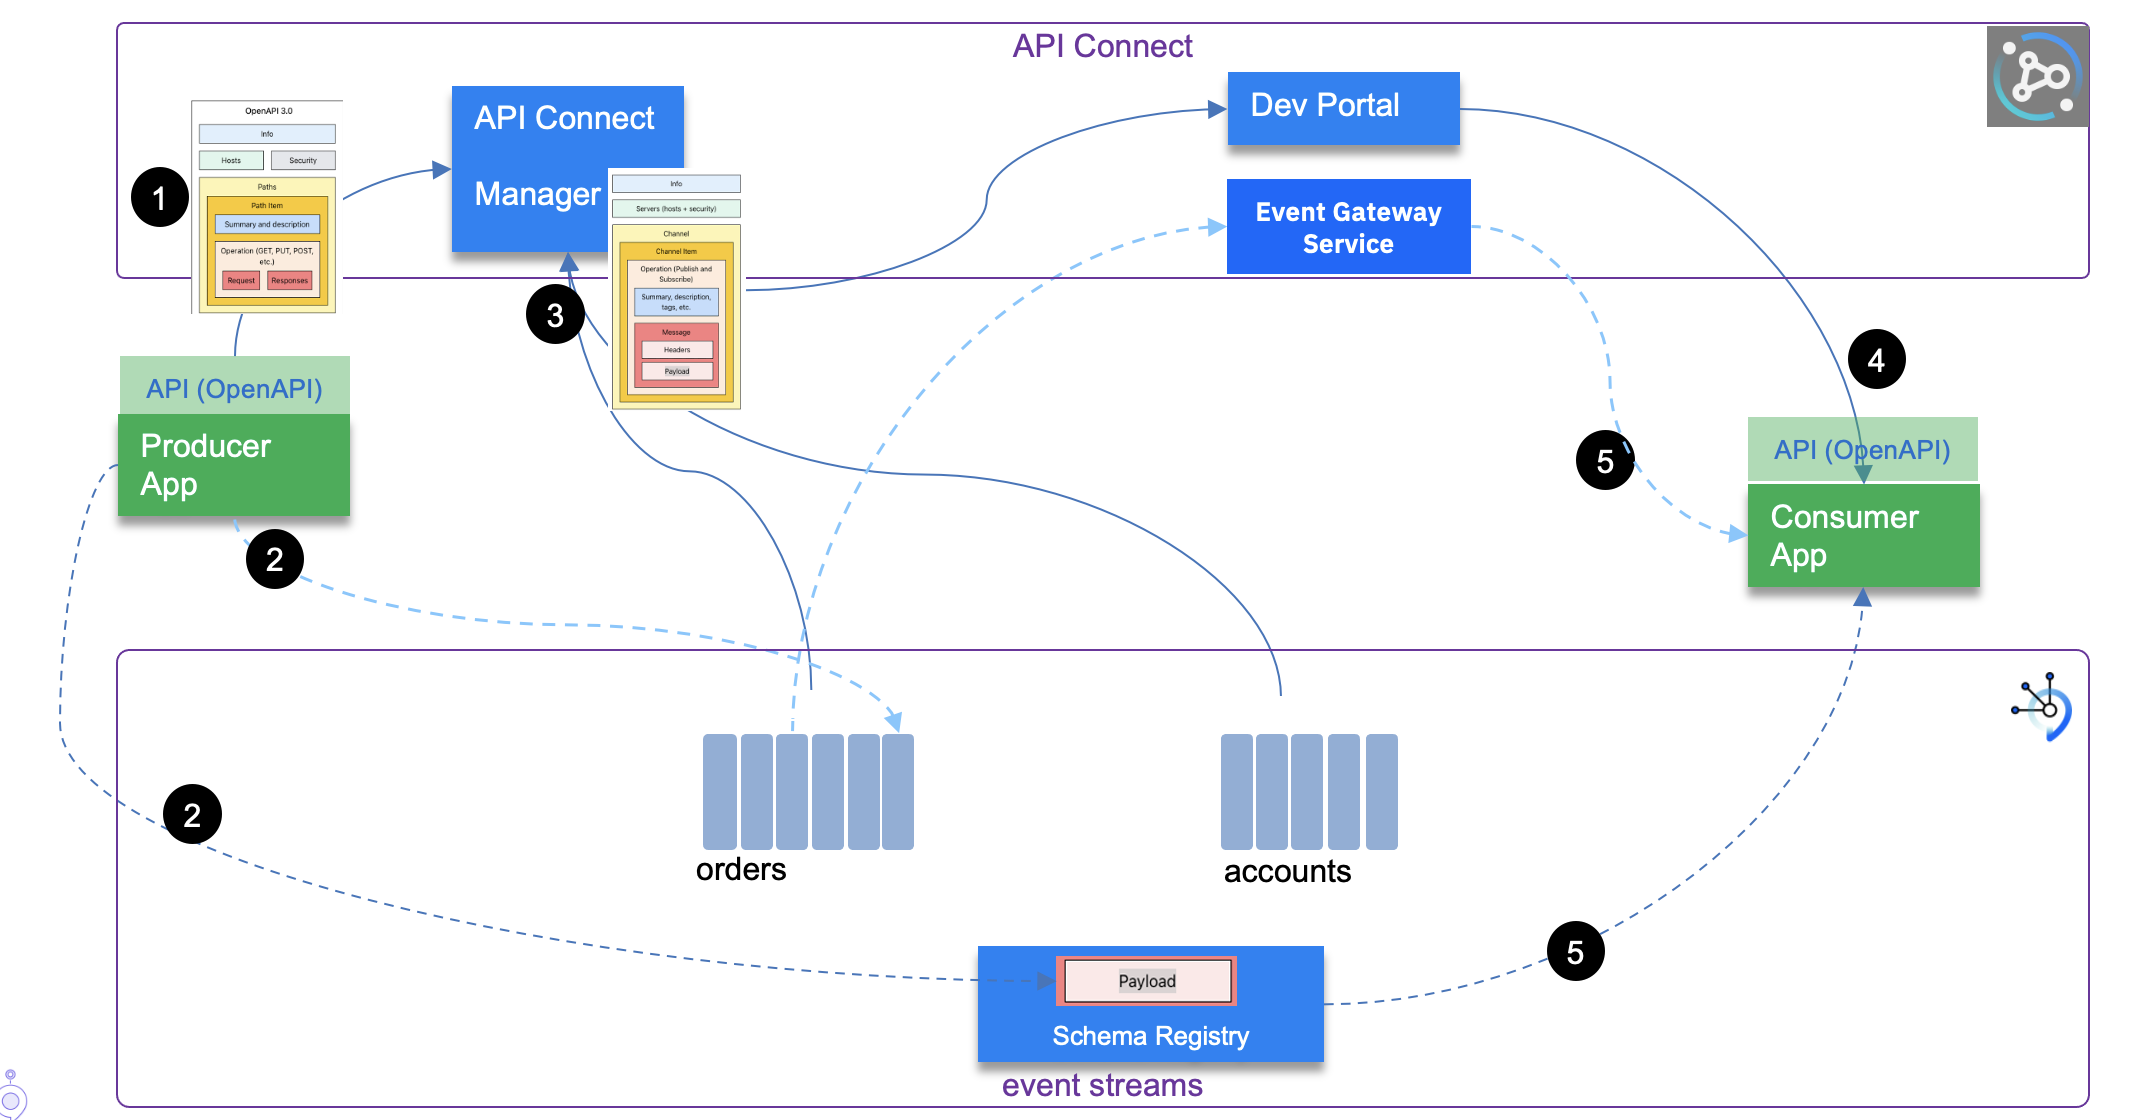
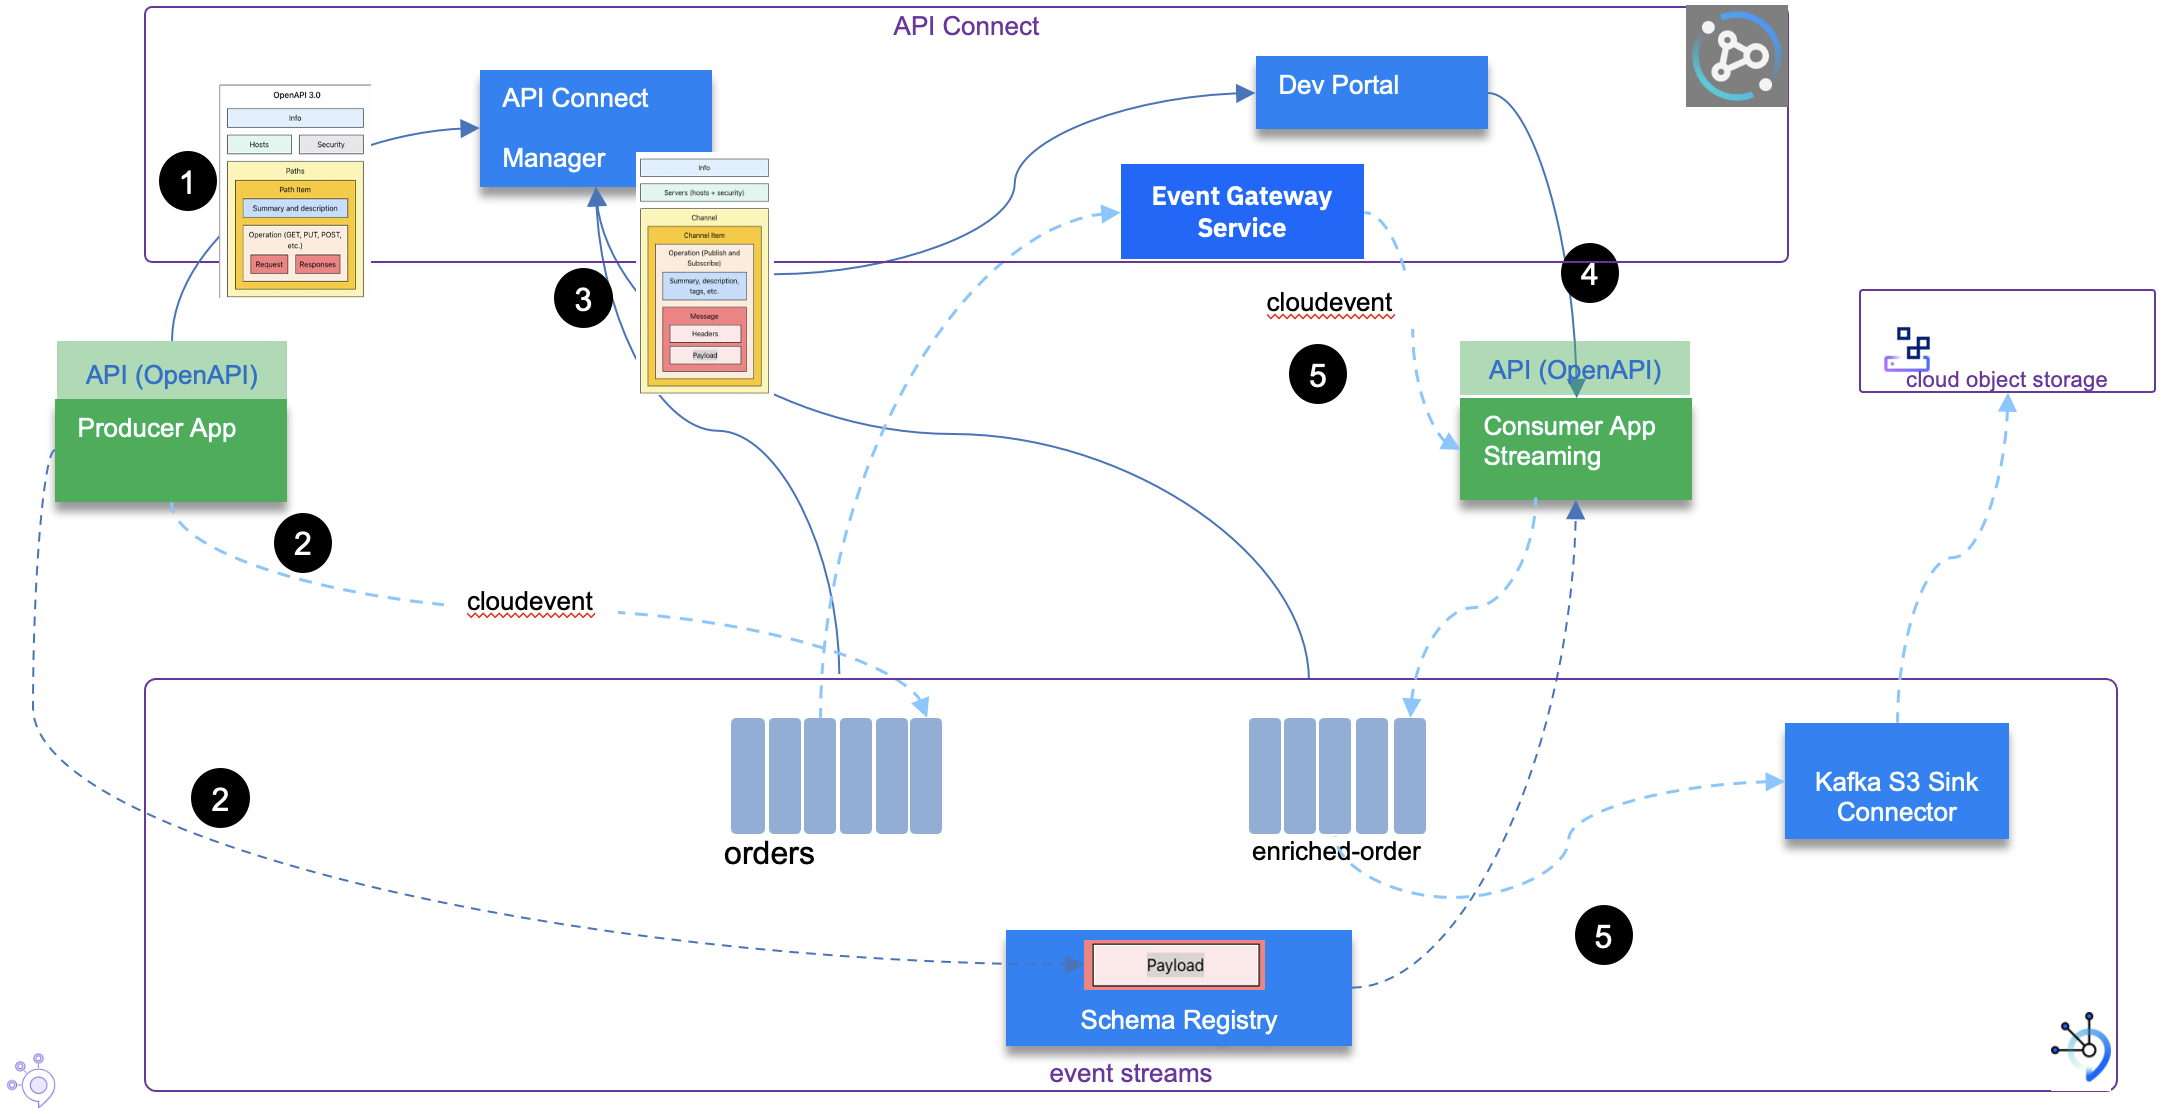
update to flow architecture, quarkus

diff --git a/docs/blogs/08-27-21/index.md b/docs/blogs/08-27-21/index.md
@@ -6,34 +6,49 @@ how to do things with the last technology available to us ('last' meaning Novemb
 I want to propose a set of articles to address this developer's experience, not fully in the perfect order of developer's activities, 
 as normally  we should start by event-storming workshop with the business subject matter experts and apply Domain Driven Design.
 
-At the minimum level an event solution will have producer applications, event brokers, consumer applications but
-if you want some governance we need to add schema registry and OpenAPI and AsyncAPI management.
+At the minimum level an event solution will have producer applications, event brokers, consumer applications for event processing and 
+sinks to move data for long term persistence. As we want governance to understand how to consume
+data and who is doing what in this distributed solution, we need to add schema registry 
+OpenAPI and AsyncAPI management and metadata management. 
 
-The following figure illustrates the minimum components we will consider for this article:
+The following figure illustrates a minimum set of components we may need to use in any event-driven solution:
 
 ![](./images/components.png)
 **Figure 1: a component view of a simple solution**
 
-We should consider the developer of the producer application. This application can take different form, but let
+Components:
+
+* Kafka producer exposing REST API to get data from a mobile or webapp
+* Kafka Brokers in this case IBM Event Streams
+* A schema registry in this case the one in IBM Event Streams
+* One to many consumers, here an example of consumer using streaming processing to consume, process, publish events.
+* Integrate API management for both REST end points and asyncAPI for Kafka topics
+* Event end point gateway to control communication between consumers and kafka brokers 
+* S3 sink Kafka connector to move events for longer term storage like S3 buckets in cloud object storage.
+
+From the flow point of view:
+
+1. We should consider the developer of the producer application. This application can take different form, but let
 assume it will be a Java microprofile, reactive messaging app. The application exposes REST resources defined
 via OpenApi document. During the development process the OpenAPI document will be pushed to an API management,
 and deployed to an API gateway (Step 1 in figure above). We do not want to focus on that. 
-When the application starts to be deployed and produces events to the `order` topic, the schemas defined
-for this messages, are pushed to a schema registry at mostly the same time as the message is published (Step 2). The schema
-could also have been pushed via API or user interface. We will address DevOps deployment of schema in another articles.
-
-To make this topic and schema governed and known, it is possible to connect API management to the kafka topic
+1. When the application starts to be deployed, it produces events to the `orders` topic, the schemas defined
+for this messages, is pushed to a schema registry at mostly the same time as the message is published (Step 2). 
+The schema could also have been pushed via API or user interface. We will address DevOps avro schema deployment later.
+1. To make this topic and schema governed and known, it is possible to connect API management to the kafka topic
  and add metadata to document who own the "contract" of this topic. The asyncAPI document is then managed inside 
  the API management (IBM App Connect) (Step 3). 
+1. Now the developer of the consumer application will get the list of topics and their metadata inside the developer
+portal of the API management. He downloads the asyncAPI (Step 4) and get the contract and avro schemas. 
+1. When the application starts, it will consume from a topic, get the schema identifier
+from the record header and will download the schema definition from the schema registry (Step 5). 
 
-Now if we are a developer of consumer applications, we will get the list of topics and their metadata inside the developer
-portal of the API management. We download the asyncAPI (Step 4) and get the contract and avro schemas. We develop this consumer
-application, and when the application start, it will consume from a topic, get the schema identifier
-from the record header and will download the schema definition from the schema registry (Step 5). The 
-application is using Kafka API / reactive messaging to access Kafka broker. But in fact the URL is proxy by
+The application is using Kafka API / reactive messaging to access Kafka broker. But in fact the URL is proxied by
 the event gateway service. This event gateway can enforce traffic and access policies.
 
-So here is how I see the different high level task developers may need to follow:
+## High level developer's tasks
+
+So here is how I see the different high level developer tasks may look like:
 
 * Use [domain-driven design](https://ibm-cloud-architecture.github.io/refarch-eda/methodology/domain-driven-design/) and [event storming](https://ibm-cloud-architecture.github.io/refarch-eda/methodology/event-storming/) to discover the business process to support 
 and discover the different bounded contexts which will be mapped to microservices.
@@ -45,12 +60,16 @@ deployment environments (`dev`, `staging`, `prod`). Define specific pipelines ta
 Connect git repository  via webhook to the pipeline tool (e.g. Tekton)
 * Define message structure using AVRO or JSON schemas, generate Java Beans from the event definitions using maven or other tool.
 * Connect and upload schemas to schema registry
-* Define REST end point and OpenAPI, then defines and supports those APIs
-* Apply test driven development for the business logic, assess integration tests scope and tune development environment accordingly. 
-* Ensure continuous deployment with ArgoCD 
+* Define REST end point and OpenAPI and upload them to API management
+* Apply test driven development for the business logic, assess integration tests scope and 
+tune development environment accordingly. 
+* Ensure continuous deployment with ArgoCD
+* Create the consumer application, get AsyncAPI document from API management portal
 
-In this article, I propose to reuse our code Quarkus reactive message producer and consumer templates from
+In this article, I propose to reuse our  reactive message Quarkus producer and consumer code templates from
 [this repository](https://github.com/ibm-cloud-architecture/eda-quickstarts).
+
+To learn more from AsyncAPI see the videos from Dale Lane [here](https://dalelane.co.uk/blog/?p=4380)
 
 ## From Domain Driven Design...
 
@@ -110,12 +129,13 @@ we will need to create the following git repositories:
 
 ## Getting Started
 
-We assume you have access to an OpenShift 4.7 Cluster: if not you can use [IBM OpenLab](https://developer.ibm.com/openlabs) to get a free cluster for one hour. 
+We assume, you have access to an OpenShift 4.7 or newer Cluster: if not you can use [IBM OpenLab](https://developer.ibm.com/openlabs) to get a free cluster for one hour. 
 
 Login to your cluster, and create a project.
 
 ```sh
 oc login --token=.... --server=....
+oc new-project demo-order
 ```
 
 ### Install pre-requisites

diff --git a/docs/architecture/flow-architectures.md b/docs/architecture/flow-architectures.md
@@ -117,3 +117,77 @@ For event processing three type of engines:
 * real-time stateful systems: *Digital twins* are software agents supporting the problem domain
 in a stateful manner. Behavior is supported by code or rules, and relationship between agents. 
 Agents can monitor the overall system state. [Swim.ai](https://www.swim.ai/) builds its model dynamically from the event stream and provides built-in machine learning capabilities that enable both continuous learning and high performance model execution
+
+Mainstream adoption of flow itself will be five to ten years from now 2020. Flow will have to prove that 
+it meets security criteria for everything from electronic payments to health-care data to classified
+ information. The CNCF’s CloudEvents specification, for instance, strongly suggests payloads be encrypted.
+There is no single approach to defining an event with encryption explicitly supported 
+that can be read by any event-consuming application (MQTT, AMQP, have different encryption and TLS add more for 
+TCP connection).
+
+Consumers need assurances that the data they receive in an event is valid and accurate, a practice 
+known as **data provenance**.  
+
+> Data provenance is defined as “a record of the inputs, entities, 
+systems, and processes that influence data of interest, providing a historical record of the 
+data and its origins"
+
+Provenance has to maintained by the producer as a checksum number created by parsing the event data, and encrypted
+by the producer's key. CloudEvent has metadata about the message. When sent to Kafka they are 
+immutable record. Now the traceability of the consumers in kafka world is a major challenge.
+Blockchain may also be used to track immutable record with network parties attest its accuracy.
+
+
+Applying the concept of data loose value over time, it is important to act on data as early
+as possible, close to creation time. After a period of time data becomes less valuable.
+
+Two time factors are important in this data processing: **latency** (time to deliver data to consumers)
+and **retention** (time to keep data). For latency try to reduce the number of network segment between
+producer and consumers. Considering edge computing as a way to bring event processing close to the source.
+The event processing add time to the end to end latency. Considering constraining the processing time frame.
+
+*Retention* is a problem linked to the business requirements, and we need to assess for each topic how long
+an event is still valuable for the consumers. Not keeping enough events will impact correctness of consumer state, 
+projection views... keeping for too long, increase the cost of storage, but also the time to rebuild data 
+projection. 
+
+Finally, producers will want to trust that only authorized consumers are using the events they produce.
+Also it may be possible to imagine a way to control the intellectual property of the data so producer can keep 
+its ownership. Data consumption should be done via payment like we do with music subscription.
+
+## Flow patterns:
+
+### Collector pattern
+
+The Collector pattern is a pattern in which a single consumer subscribes to topics from multiple producers. 
+
+### Distributor pattern
+
+Each event in a stream is distributed to multiple consumers. It could be a hard problem to solve
+when doing it across geographically distributed systems. Edge computing can be used to distribute
+ streaming endpoints closer to the consumers that need those streams. Alternate
+ is to moving the event processing close to the source. For many Distributor use cases, 
+ partitioning the data by region is probably smart, and flow interfaces will need to take 
+ this into account.
+
+### Signal pattern
+
+The Signal pattern is a general pattern that represents functions that exchange data between
+ actors based on a distinct function or process, in can be seen as a traffic cop. 
+ It supports multiple producers and multiple consumers. The signal pattern is supported
+ by multiple event processing each handling one aspect of the event processing.
+
+Stream processing may route event streams between several distributed edge computing services as 
+well as core shared services, but then we need management layer to get global view of the systems.
+They need to be integrated into observability tool. But the "single pane of glass" is often a lure
+as distributed systems require distributed decision-making. More local solutions are more agile, flexible
+and better address local problems for improved resilience.  
+
+One of the challenge of complex adaptive systems is that any agent participating in 
+the system has difficulty seeing how the system as a whole operates,
+because of its limited connections to other neighbor agents.
+
+### Facilitator pattern
+
+A specialized form of Signal pattern, facilitator is a "broker" to match producers' events to
+consumers' demands. It is like matching sellers with buyers.

diff --git a/docs/java/restassured.md b/docs/java/restassured.md
@@ -6,6 +6,9 @@ and [Baeldung post](https://www.baeldung.com/rest-assured-tutorial)
 Test a GET
 
 ```java
+import io.restassured.http.ContentType;
+import io.restassured.response.Response;
+import static io.restassured.RestAssured.when;
 @Test public void
 lotto_resource_returns_200_with_expected_id_and_winners() {
 
@@ -41,8 +44,9 @@ public void shouldGetOneInventory(){
 Test a POST
 
 ```java
-given()
-          .pathParam("numberRecords", 3)
+import static io.restassured.RestAssured.given;
+
+given().pathParam("numberRecords", 3)
           .when().post("http://localhost:8080/start/{numberRecords}")
           .then()
              .statusCode(200)
@@ -52,6 +56,10 @@ given()
 Another POST with taking the response body to a bean
 
 ```java
+import io.restassured.http.ContentType;
+import io.restassured.response.Response;
+import static io.restassured.RestAssured.with;
+
 ClusterBasicInfo clusterInfo = new ClusterBasicInfo();
         clusterInfo.name = "localKafka";
         clusterInfo.adminURL = kafkaContainerForTest.getBootstrapServers();
@@ -68,4 +76,18 @@ ClusterBasicInfo clusterInfo = new ClusterBasicInfo();
         ClusterDetail updateDetails = resp.body().as(ClusterDetail.class);
 ```
 
-And array of beans
+And array of beans:
+
+```java
+Response rep = given()
+          .headers("Content-Type", ContentType.JSON, "Accept", ContentType.JSON)
+          .when().get(basicURL)
+          .then()
+             .statusCode(200)
+             .contentType(ContentType.JSON)
+            .extract()
+            .response();
+            System.out.println(rep.jsonPath().prettyPrint());
+            OrderDTO[] orders = rep.body().as(OrderDTO[].class);
+            Assertions.assertTrue(orders.length >= 2);
+```

diff --git a/docs/java/quarkus.md b/docs/java/quarkus.md
@@ -412,8 +412,10 @@ Response rep = given()
 ```
 Application configuration will be used in any active profile. The built-in profiles in Quarkus are: `dev, prod and test`. The `test` profile will be used every time you run the @QuarkusTest
 
-@QuarkusTest helps to get the CDI working. But there is still an issue on inject properties that may not be loaded due to proxy instance creation. So in test class the properties need to be accessed via getter:
-For example to be sure the hostname is loaded from the application.properties do:
+@QuarkusTest helps to get the CDI working. But there is still an issue on inject properties
+ that may not be loaded due to proxy instance creation. So in test class 
+ the properties need to be accessed via getter:
+For example to be sure the hostname is loaded from the `application.properties` do:
 
 ```Java 
 @ApplicationScoped

diff --git a/docs/java/microprofile.md b/docs/java/microprofile.md
@@ -13,14 +13,8 @@ Two way to implement the communication between services:
 
 This section summarizes some getting started stuff on microprofile.
 
-### With appsody
 
-Create a [open liberty microprofile 3.3](https://github.com/appsody/stacks/tree/master/incubator/java-openliberty) with appsody command: `appsody init java-microprofile`, which downloads the java microprofile code template with "health, liveness and metrics and a hello world API".
-`appsody run` or `appsody test` to continuously see the impact from the code updates.
-
-To get the password for the metrics do the following: `docker exec -it my-project-dev  bash -c "grep keystore /opt/ol/wlp/usr/servers/defaultServer/server.env"`
-
-### With maven
+### With maven Liberty
 
 Use the [Generate tool at start.microprofile.io](https://start.microprofile.io/).
 
